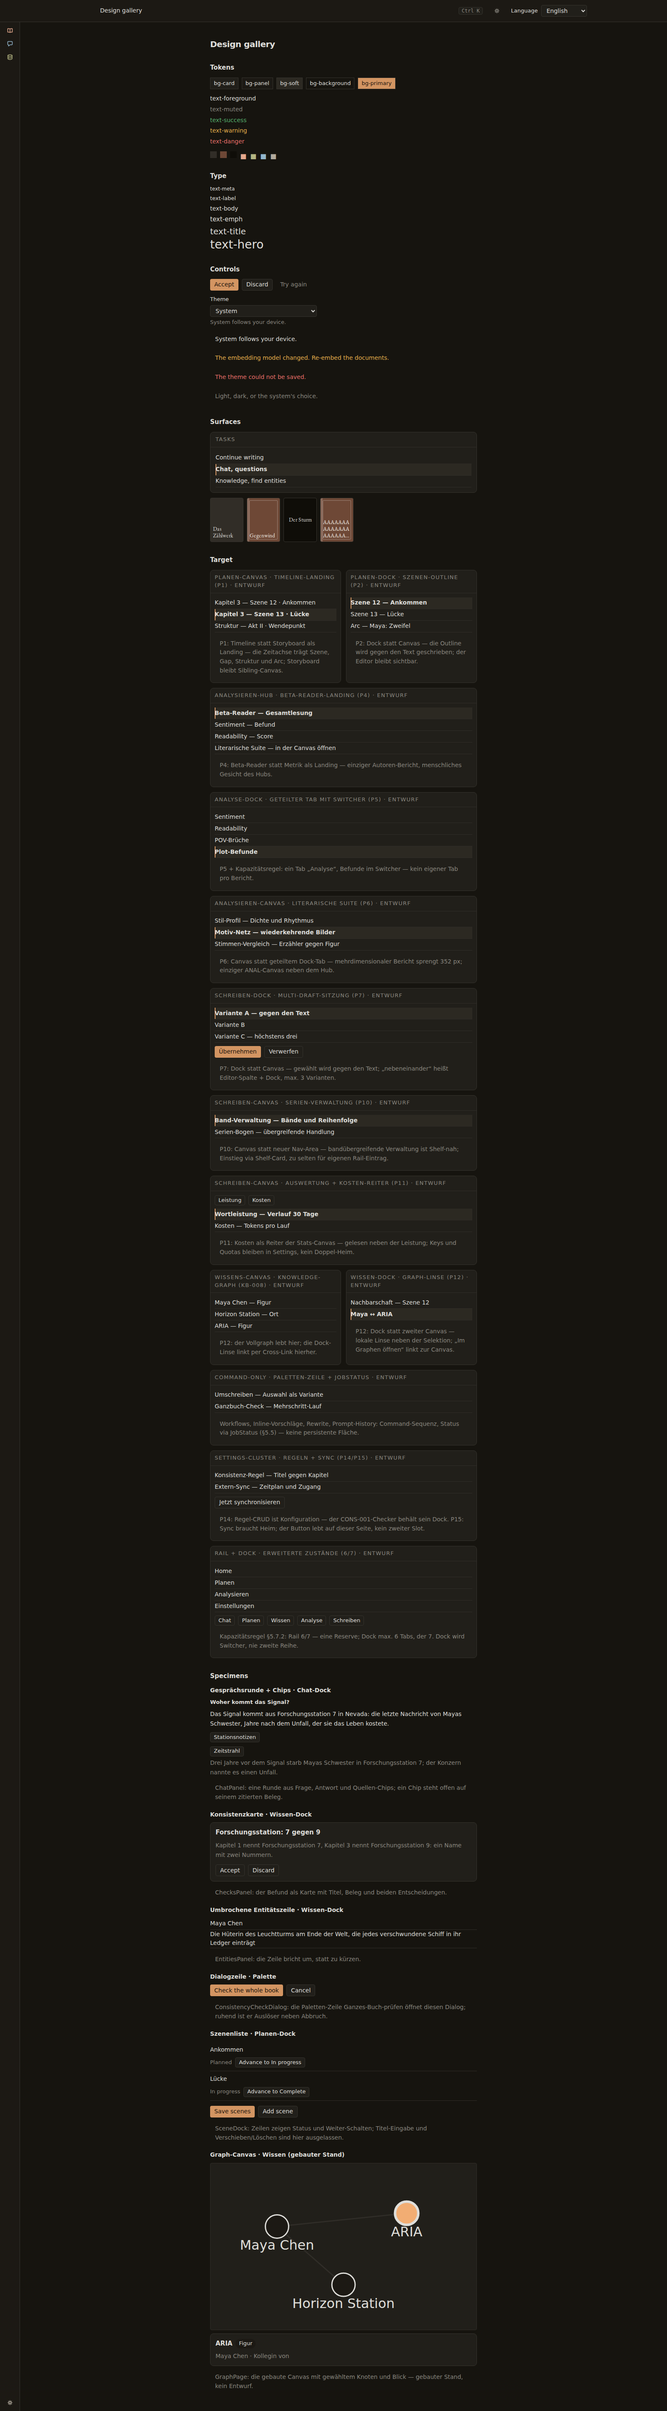
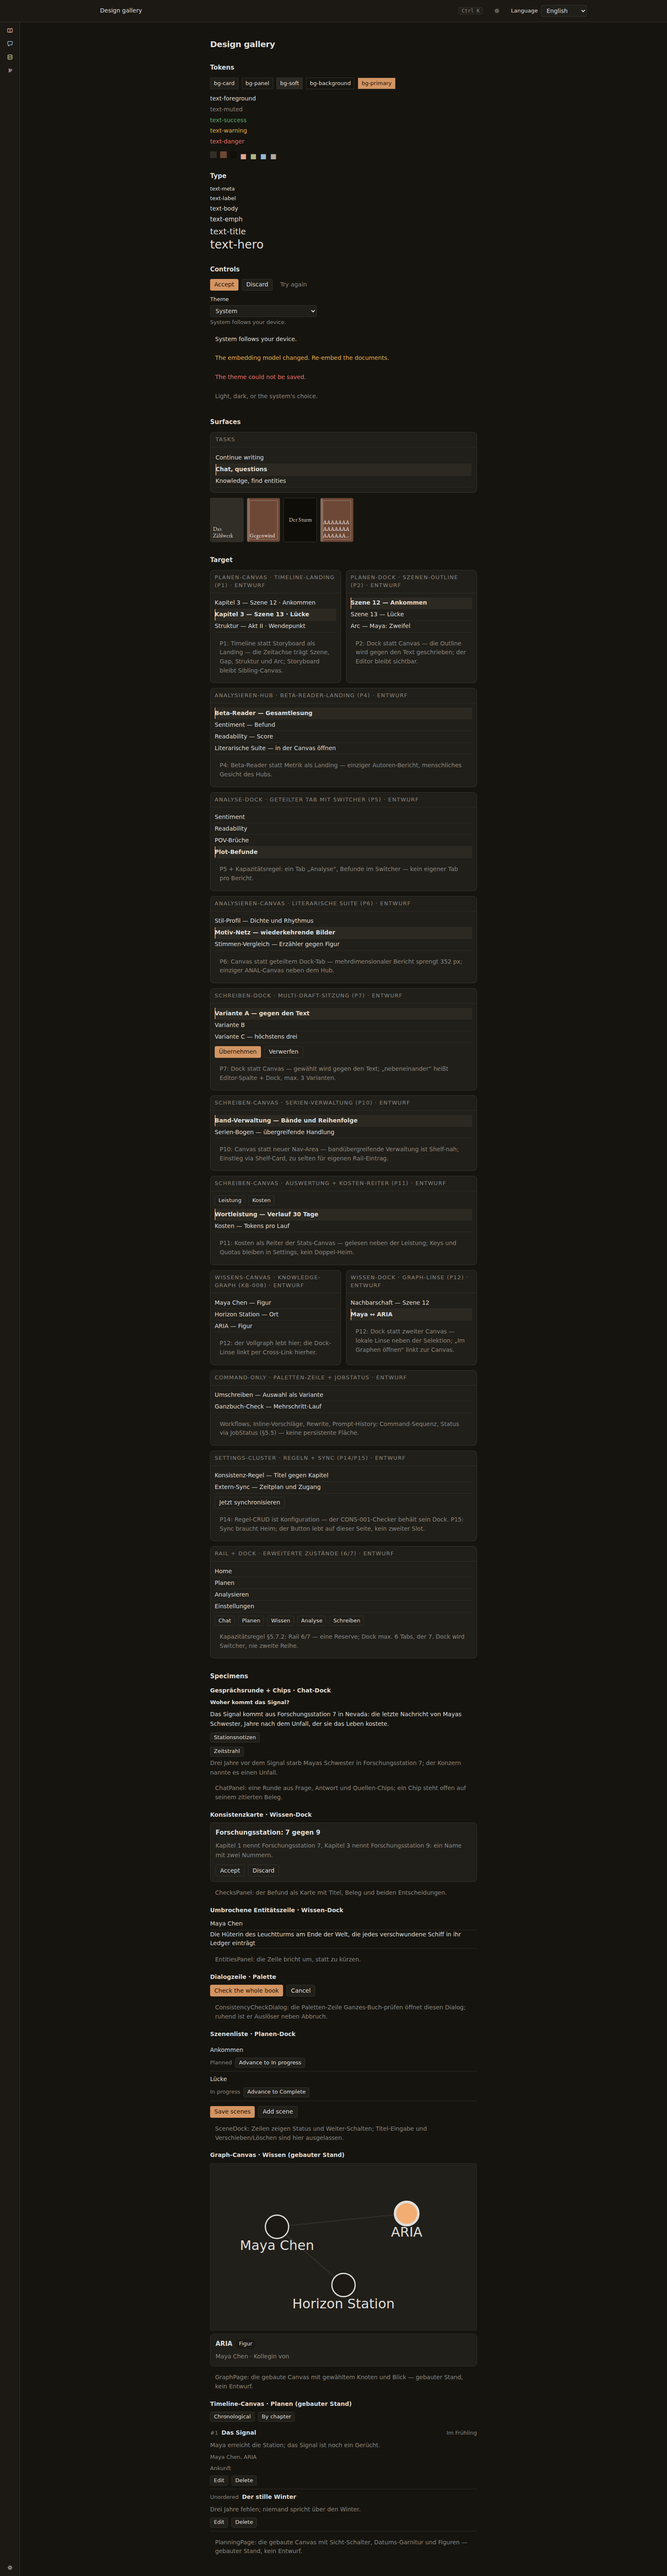
docs(screenshots): the timeline canvas pinned in both themes
User-visible: the design gallery now pins the built timeline canvas beside the graph specimen, and the gallery page plus both timeline screenshots show the canvas in light and dark.
Assisted-by: OpenCode (muse-spark-1.3-contributor)

diff --git a/app/capabilities/settings/web/DesignGallery.tsx b/app/capabilities/settings/web/DesignGallery.tsx
@@ -37,7 +37,8 @@ import { usePageTitle } from "@shell/lib/pageTitle";
  * The "Specimens" section pins the landed dock and palette states on the
  * real primitives — a conversation turn with its source chips, the
  * consistency card, the wrapped entity row, the palette dialog's button
- * row, the planning scene list — inert specimens, never embeds: no handlers, no fetches, no modal
+ * row, the planning scene list, the built timeline canvas — inert specimens,
+ * never embeds: no handlers, no fetches, no modal
  * shell. The subsection headings and source notes are documentation in
  * the record's language (German, like the draft titles), the same in
  * every locale; only the section heading itself comes from the catalog.
@@ -765,6 +766,94 @@ export function DesignGallery() {
             <Notice tone="quiet">
               GraphPage: die gebaute Canvas mit gewähltem Knoten und
               Blick — gebauter Stand, kein Entwurf.
+            </Notice>
+          </div>
+        </div>
+        <div className="mt-3">
+          <h3 className="text-body font-semibold">
+            Timeline-Canvas · Planen (gebauter Stand)
+          </h3>
+          {/* The canvas as PlanningPage renders it, pinned small: the view
+              switch with its pressed mark, then the events in the server's
+              own order — each row with its position, its words, the date
+              garnish, the characters and the chapter where they belong. The
+              undated row renders its position instead of a date, never an
+              empty slot. Inert: the switch never switches, the row actions
+              are plain buttons — the modal shell cannot stand inline in a
+              gallery, so no dialog opens here. The Target draft above keeps
+              its ENTWURF stamp as the fork record; this block never wears
+              it — gebauter Stand, not a draft. */}
+          <section aria-label={t("planning.heading")} className="mt-2">
+            <div className="flex flex-wrap items-center gap-2">
+              <Button variant="secondary" size="sm" aria-pressed="true">
+                {t("planning.viewChrono")}
+              </Button>
+              <Button variant="secondary" size="sm" aria-pressed="false">
+                {t("planning.viewByChapter")}
+              </Button>
+            </div>
+            <ul className="mt-2 flex flex-col">
+              <li>
+                <Row
+                  as="div"
+                  role="group"
+                  aria-label="Das Signal"
+                  flush
+                  className="h-auto flex-col items-stretch gap-1 py-2"
+                >
+                  <div className="flex flex-wrap items-baseline gap-x-2">
+                    <span className="shrink-0 text-label text-muted">#1</span>
+                    <span className="min-w-0 flex-1 text-body font-semibold">Das Signal</span>
+                    <span className="shrink-0 text-label text-muted">Im Frühling</span>
+                  </div>
+                  <p className="text-body text-muted">
+                    Maya erreicht die Station; das Signal ist noch ein Gerücht.
+                  </p>
+                  <p className="text-label text-muted">Maya Chen, ARIA</p>
+                  <p className="text-label text-muted">Ankunft</p>
+                  <div className="flex flex-wrap items-center gap-2">
+                    <Button variant="secondary" size="sm">
+                      {t("planning.edit")}
+                    </Button>
+                    <Button variant="secondary" size="sm">
+                      {t("planning.delete")}
+                    </Button>
+                  </div>
+                </Row>
+              </li>
+              <li>
+                <Row
+                  as="div"
+                  role="group"
+                  aria-label="Der stille Winter"
+                  flush
+                  className="h-auto flex-col items-stretch gap-1 py-2"
+                >
+                  <div className="flex flex-wrap items-baseline gap-x-2">
+                    <span className="shrink-0 text-label text-muted">
+                      {t("planning.unordered")}
+                    </span>
+                    <span className="min-w-0 flex-1 text-body font-semibold">Der stille Winter</span>
+                  </div>
+                  <p className="text-body text-muted">
+                    Drei Jahre fehlen; niemand spricht über den Winter.
+                  </p>
+                  <div className="flex flex-wrap items-center gap-2">
+                    <Button variant="secondary" size="sm">
+                      {t("planning.edit")}
+                    </Button>
+                    <Button variant="secondary" size="sm">
+                      {t("planning.delete")}
+                    </Button>
+                  </div>
+                </Row>
+              </li>
+            </ul>
+          </section>
+          <div className="mt-2">
+            <Notice tone="quiet">
+              PlanningPage: die gebaute Canvas mit Sicht-Schalter, Datums-Garnitur
+              und Figuren — gebauter Stand, kein Entwurf.
             </Notice>
           </div>
         </div>

diff --git a/app/capabilities/settings/web/DesignGallery.test.tsx b/app/capabilities/settings/web/DesignGallery.test.tsx
@@ -94,6 +94,30 @@ describe("DesignGallery", () => {
     expect(block.textContent).toMatch(/Figur/);
   });
 
+  it("pins the built timeline-canvas specimen beside the Target draft", () => {
+    cleanup();
+    render(<DesignGallery />);
+    // The specimen's own heading names the built state — the Target draft
+    // above keeps the ENTWURF stamp as the fork record, the specimen never
+    // wears it.
+    const heading = screen.getByRole("heading", { name: /Timeline-Canvas/ });
+    expect(heading.textContent).toMatch(/gebaut/);
+    const block = heading.parentElement as HTMLElement;
+    expect(block.textContent).not.toMatch(/ENTWURF/);
+    // The dated row carries its garnish, characters and chapter; the
+    // undated row renders its position instead of a date.
+    expect(screen.getByRole("group", { name: "Das Signal" })).toBeTruthy();
+    expect(block.textContent).toMatch(/#1/);
+    expect(block.textContent).toMatch(/Im Frühling/);
+    expect(block.textContent).toMatch(/Maya Chen/);
+    expect(screen.getByRole("group", { name: "Der stille Winter" })).toBeTruthy();
+    expect(block.textContent).toMatch(/Unordered/);
+    // The view switch and the row actions stand inert: pressed marks and
+    // plain buttons, no dialogs, no handlers.
+    expect(screen.getByRole("button", { name: "Chronological" })).toBeTruthy();
+    expect(screen.getAllByRole("button", { name: "Edit" })).toHaveLength(2);
+  });
+
   it("clamps a 120-character cover title", () => {
     const { container } = render(<DesignGallery />);
     const tile = container.querySelector('[data-cover-tone][data-long-title]');

diff --git a/scripts/screenshots.py b/scripts/screenshots.py
@@ -100,6 +100,8 @@ SHOTS = (
     "09-design-dark.png",
     "10-graph.png",
     "11-graph-dark.png",
+    "12-timeline.png",
+    "13-timeline-dark.png",
 )
 
 
@@ -259,6 +261,46 @@ def _seed_graph(api: httpx.Client) -> tuple[str, str, str]:
     )
     edge.raise_for_status()
     return novel_id, names[0], names[1]
+
+
+def _seed_timeline(api: httpx.Client) -> str:
+    """A novel with chapters and events, through the API.
+
+    The events enter the world the way a writer would place them — through
+    the real create — one dated with characters and a chapter, one ordered
+    but undated, one unordered and chapterless. Returns the novel's id, the
+    timeline canvas's ``?novel=`` parameter. Mirrors the planning E2E's
+    seed; the screenshots stack runs the same fake providers.
+    """
+    novel = api.post("/api/writing/novels", json={"title": "Die geplante Bucht"})
+    novel.raise_for_status()
+    novel_id = str(novel.json()["id"])
+    chapter_ids: list[str] = []
+    for title in ("Ankunft", "Abreise"):
+        chapter = api.post(f"/api/writing/novels/{novel_id}/chapters", json={"title": title})
+        chapter.raise_for_status()
+        chapter_ids.append(str(chapter.json()["id"]))
+    events: tuple[dict[str, object], ...] = (
+        {
+            "title": "Anfang",
+            "description": "Maya erreicht die Station; das Signal ist noch ein Gerücht.",
+            "date_label": "Im Frühling",
+            "character_names": ["Maya Chen", "ARIA"],
+            "chapter_id": chapter_ids[0],
+            "position": 1,
+        },
+        {
+            "title": "Mitte",
+            "description": "Der Konzern nennt es einen Unfall.",
+            "chapter_id": chapter_ids[1],
+            "position": 2,
+        },
+        {"title": "Ausklang", "description": "Drei Jahre fehlen."},
+    )
+    for payload in events:
+        created = api.post(f"/api/planning/novels/{novel_id}/timeline-events", json=payload)
+        created.raise_for_status()
+    return novel_id
 
 
 def _capture(
@@ -449,6 +491,28 @@ def _capture(
     page.get_by_role("button", name=first).click()
     expect(page.get_by_role("region", name=first)).to_be_visible()
     shot(SHOTS[10])
+
+    # 12. The timeline canvas in the default light: the novel's events in
+    #     the writer's own order — the dated row with its garnish, its
+    #     characters and its chapter, the unordered row with its position
+    #     instead of a date — the canvas owns the page, shot at the shared
+    #     viewport.
+    api.patch("/api/settings/theme", json={"theme": None})
+    timeline_novel = _seed_timeline(api)
+    page.goto(f"{WEB}/planning?novel={timeline_novel}")
+    expect(page.get_by_role("group", name="Anfang")).to_be_visible()
+    expect(page.get_by_text("Im Frühling")).to_be_visible()
+    expect(page.get_by_text("Unordered")).to_be_visible()
+    shot(SHOTS[11])
+
+    # 13. The same canvas in the reader's chosen dark, proven against a
+    #     light OS — the rows and the garnish stay readable.
+    api.patch("/api/settings/theme", json={"theme": "dark"})
+    page.goto(f"{WEB}/planning?novel={timeline_novel}")
+    expect(page.locator("html")).to_have_attribute("data-theme", "dark")
+    expect(page.get_by_role("group", name="Anfang")).to_be_visible()
+    expect(page.get_by_text("Im Frühling")).to_be_visible()
+    shot(SHOTS[12])
 
     api.patch("/api/settings/theme", json={"theme": None})
     return written
